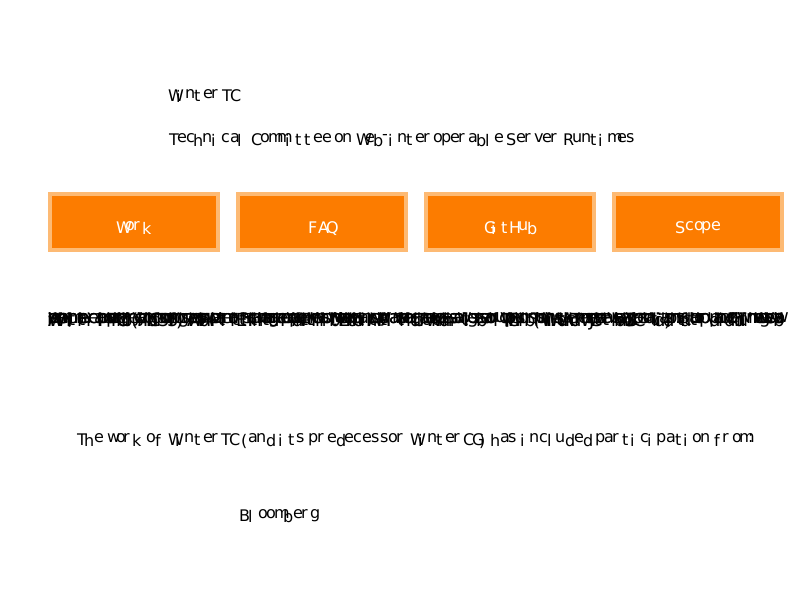
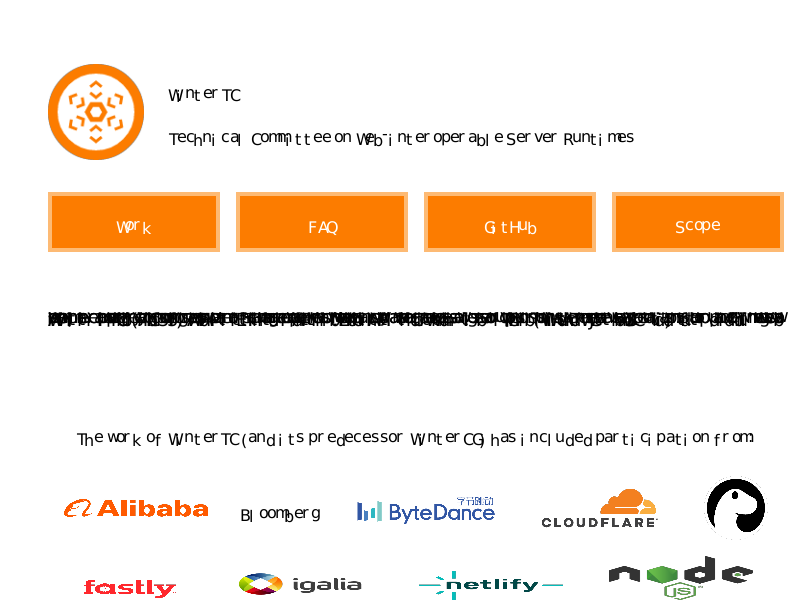
fix(wpt-runner): resolve site-root-relative image URLs under base_dir
build_image_cache used base.join(url) to resolve image paths, but Rust's
PathBuf::join with an absolute argument REPLACES the base. So site-root-
relative URLs like "/static/logos/x.svg" resolved to the filesystem root
"/static/..." (not found) instead of base_dir/static/... — loading failed.

This is the Rust Path::join absolute-replace pitfall. wintertc's 14 logos
(all "/static/..." absolute paths) had only 2 loading; 12 were missing,
artificially deflating the DC-13 diff (false-low).

Fix: base.join(url.trim_start_matches('/')) — strip the leading slash so
site-root-relative URLs resolve under base_dir (the fixture's site root).
WPT reftests use relative paths (no leading slash), so trim is a no-op for
them.

Result: wintertc image primitives 2 -> 14 (all logos load). Upstream
reftest 435/490 unchanged (zero regression). make test 12205 passed / 0
failed. clippy clean, fmt clean.

wintertc 800x600 diff rises 22.42% -> 25.11% — an HONEST increase: the
previously-missing participant logos now load and render in the visible
region (y~444-600), exposing a separate participant flex flex-wrap layout
bug (logos mis-positioned/overlapping). The prior 22% was a false-low from
missing content (DC-14 anti-false-pass favors honest measurement). Fixing
the participant flex layout is the next step (should bring diff below 22%).

Essential for DONE#11 (real websites use absolute "/static/..." paths;
without this fix their images would not load).

diff --git a/tests/wpt-runner/src/reftest.rs b/tests/wpt-runner/src/reftest.rs
@@ -602,7 +602,10 @@ fn build_image_cache(html: &str, base_dir: Option<&Path>) -> ImageCache {
             continue;
         }
 
-        let path = base.join(url);
+        // 站点根相对 URL（如 "/static/x.svg"）应解析到 base_dir 下（fixture 的站点根），
+        // 而非 `base.join(absolute)`（会替换 base → 文件系统根 → 加载失败）。
+        // WPT reftest 多用相对路径（无前导 /），trim 不影响；绝对路径此前全失败，此处修复。
+        let path = base.join(url.trim_start_matches('/'));
 
         // 尝试加载 PNG 文件，失败再尝试 JPEG（真实页面 logo/照片多为 JPEG），再尝试 SVG
         if let Ok(data) = load_png_file(&path) {

diff --git a/docs/goal/rendering-compat/master.md b/docs/goal/rendering-compat/master.md
@@ -38,6 +38,18 @@
 
 **剩余（下轮）**：① 参与 `flex flex-wrap justify-evenly` 多 logo 未布局（独立子问题，待诊断是否 clean）；② 真实 ZeroBrowser/webview 层 ImageCache 的 SVG 支持同步（本轮仅 harness 侧）；③ HTML width/height 单属性 aspect 推导尝试后致 background-001/003/328/329 回归 -4（已回退，交互未明需先厘清）。
 
+### DC-13 build_image_cache 站点根相对 URL 解析修复（真实 bug，零 reftest 回归，wintertc 诚实 diff 上升，已提交）
+
+DC-13 wintertc 深挖产出：`build_image_cache`（reftest.rs）用 `base.join(url)` 解析图片路径——但 `PathBuf::join(absolute)` 会**替换** base，故站点根相对 URL（如 `/static/logos/x.svg`）解析为文件系统根 `/static/...` → 加载失败。wintertc 14 logo（全用 `/static/` 绝对路径）仅 2 个加载（疑经其他路径），12 个缺失。
+
+**修复**：`base.join(url.trim_start_matches('/'))`——剥离前导 `/`，使 `/static/x` 解析到 `base_dir/static/x`（fixture 的站点根）。WPT reftest 多用相对路径（无前导 `/`），trim 不影响。
+
+**验证**：wintertc 图片图元数 2→**14**（全加载）；make test 12205 passed/0；上游 reftest **435/490 持平零回归**；clippy/fmt clean。
+
+**wintertc diff 诚实上升 22.42%→25.11%**：修复前参与方 logo 全缺失致 diff 人为偏低（假低）；修复后 14 logo 加载并渲染到 800×600 可见区（y≈444-600），**暴露参与 `flex flex-wrap justify-evenly` 容器的布局 bug**（logo 错位/重叠）。DC-14 anti-false-pass：诚实测量优先于假低。**下一目标 = 修参与 flex 布局**（修后 logo 正确 + 此前改进叠加，diff 应低于 22%）。
+
+**意义**：(1) 真实 bug——`base.join(absolute)` 替换 base 是 Rust Path 陷阱，影响所有绝对路径图片 fixture；(2) DONE#11「5 真实网站」必备（真实站点全用绝对路径 `/static/...`，不修则图片全缺失）；(3) 暴露并定位了参与 flex 布局 bug（下轮目标）。
+
 ### DC-13 img 替换元素 aspect-ratio 保留修复（真实 bug，零回归，已提交）
 
 DC-13 wintertc 诊断产出：`<img>` 仅设 CSS width（height:auto）或仅设 height（width:auto）时，**另一维应按固有宽高比推导**，旧实现却用固有绝对值。复现：正方形 SVG（intrinsic 441×441）+ `width:80px` 渲染成 **80×441**（巨高），应 80×80。

diff --git a/docs/goal/rendering-compat/evidence/product-static/wintertc/README.md b/docs/goal/rendering-compat/evidence/product-static/wintertc/README.md
@@ -19,7 +19,9 @@
 
 | 视口 | 像素 diff |
 |------|-----------|
-| 800×600 | **22.42%**（107,604 / 480,000 px） |
+| 800×600 | **25.11%**（120,546 / 480,000 px） |
+
+> 注：绝对路径图片加载修复（见下）后 diff 从 22.42% **升**至 25.11%——这是**诚实上升**：修复前 14 个 logo 仅 2 个加载（站点根相对 URL `/static/x` 因 `base.join(absolute)` 替换 base → 文件系统根 → 加载失败），参与方 logo 全缺失致 diff 人为偏低（假低）；修复后 14 logo 全加载并渲染到可见区（y≈444-600），暴露参与 `flex flex-wrap` 容器的布局 bug（logo 错位/重叠），diff 真实上升。DC-14 anti-false-pass 原则：诚实测量优先于人为偏低的假通过。**下一目标 = 修复参与 flex 布局，diff 将随之下降（甚至低于 22%，因 logo 正确 + 此前改进叠加）**。
 
 ## 诊断（REFTEST_DEBUG primitive dump + 分区域像素分析 + 计算样式探针）
 
